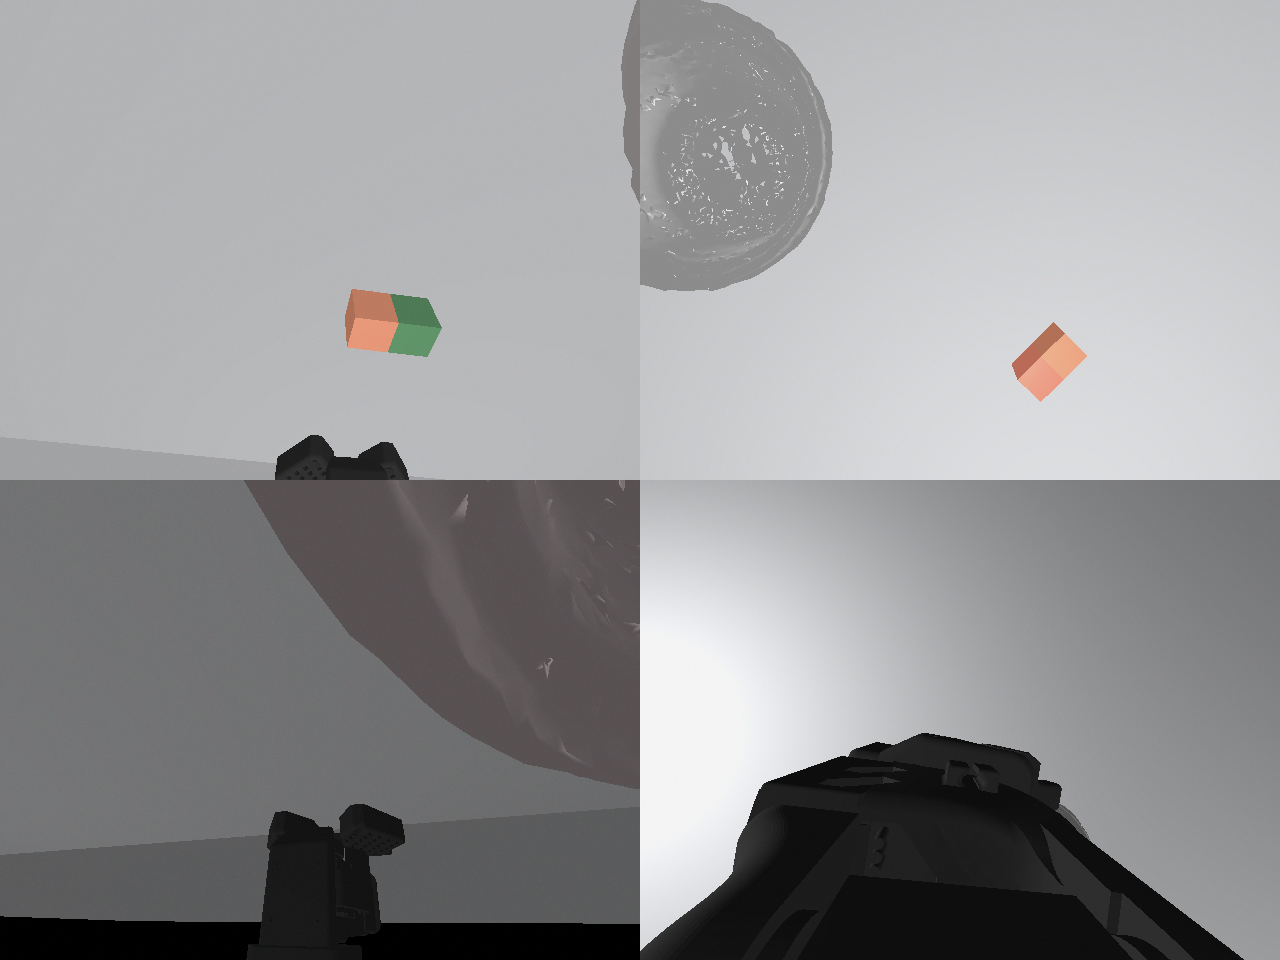
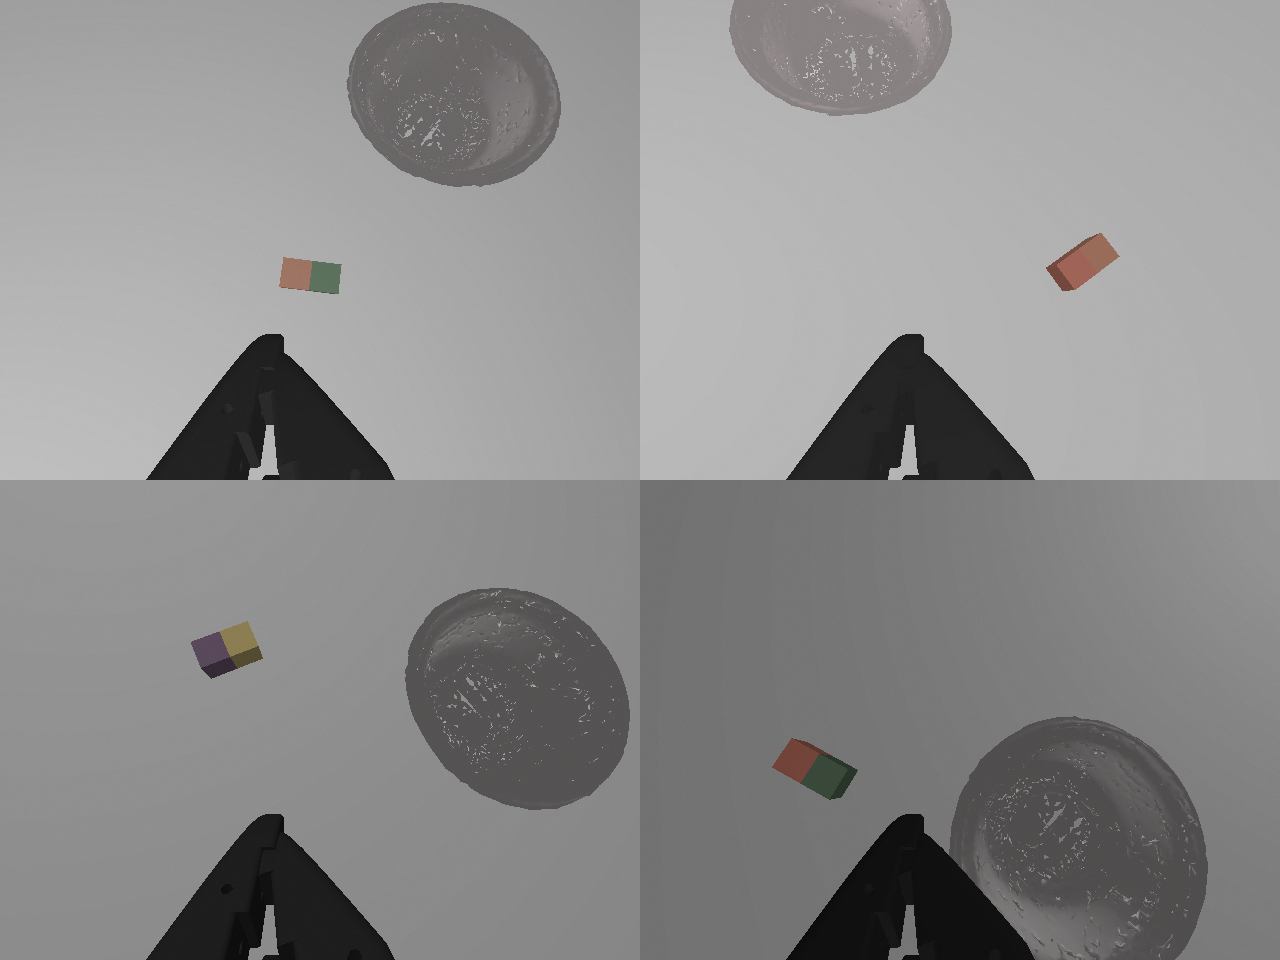
Cube colour overhaul: saturated dark palette + matte PBR + no emission
envs/place.py:
  - COLOR_PALETTE rewritten with high-saturation, mid-V values
    (HSV-S ≥ 0.83, V ≈ 0.4–0.8). The previous palette had green and
    purple at S ≈ 0.35 which read as "white was mixed in".
    red (180,30,30) blue (10,25,140) green (25,95,30)
    yellow (200,170,20) purple (100,20,120) orange (200,80,20)
  - item_roughness_range (0.35, 0.7) -> (0.7, 0.95) — more matte,
    kills the specular highlights that washed colours out.
  - item_specular_range (0.3, 0.7) -> (0.1, 0.4) — less shiny.

envs/base_random_env.py:
  - item_emission_range (0.05, 0.35) -> (0.0, 0.1). The previous
    emission added a self-lit glow that masked the true base colour.

examples/visualize_sim.py:
  - DR-override dict now also zeroes initial_qpos_noise_scale and
    wrist_camera_fov_noise so all 4 tiles show the exact configured
    pose / FOV (the fixed gripper finger stays consistently visible).

vis_snapshot.png: reference frame at the new palette.

diff --git a/envs/place.py b/envs/place.py
@@ -28,12 +28,15 @@ from .robot.so101 import SO101
 # env.reset(options={"goal_color_idx": <int or 1-D tensor>}).
 COLOR_PALETTE = np.array(
     [
-        [231/255,  84/255,  62/255],  # 0 red
-        [ 40/255,  71/255, 136/255],  # 1 blue
-        [ 76/255, 117/255,  77/255],  # 2 green
-        [238/255, 195/255,  83/255],  # 3 yellow
-        [101/255,  67/255, 104/255],  # 4 purple
-        [235/255, 116/255,  79/255],  # 5 orange
+        # High-saturation dark palette (HSV-S ≥ 0.85, V ≈ 0.5–0.8).
+        # Replaces the earlier pastel set whose low-saturation greens and
+        # purples (S ≈ 0.35) read as "white was mixed in".
+        [180/255,  30/255,  30/255],  # 0 red    S=0.83 V=0.71
+        [ 10/255,  25/255, 140/255],  # 1 blue   S=0.93 V=0.55
+        [ 25/255,  95/255,  30/255],  # 2 green  S=0.74 V=0.37
+        [200/255, 170/255,  20/255],  # 3 yellow S=0.90 V=0.78
+        [100/255,  20/255, 120/255],  # 4 purple S=0.83 V=0.47
+        [200/255,  80/255,  20/255],  # 5 orange S=0.90 V=0.78
     ],
     dtype=np.float32,
 )
@@ -203,11 +206,11 @@ class PlaceRandomizationConfig(DefaultRandomizationConfig):
     """Half-range of per-episode multiplicative jitter on cube HSV saturation. ±10% by default."""
     item_value_jitter: float = 0.10
     """Half-range of per-episode multiplicative jitter on cube HSV value (brightness). ±10% by default."""
-    item_roughness_range: Sequence[float] = (0.35, 0.7)
+    item_roughness_range: Sequence[float] = (0.7, 0.95)  # was (0.35, 0.7) — more matte to match painted-wood look (kills specular highlights that read as "too light")
     """Per-episode cube material roughness (matte <-> slightly glossy)."""
     item_metallic_range: Sequence[float] = (0.0, 0.15)
     """Per-episode cube material metallic (kept low — painted wood is non-metallic)."""
-    item_specular_range: Sequence[float] = (0.3, 0.7)
+    item_specular_range: Sequence[float] = (0.1, 0.4)  # was (0.3, 0.7) — lower specular so the cubes don't catch bright highlights that wash out the base color
     """Per-episode cube material specular reflection strength."""
 
     # Per-episode DR on the bowl material. Bowl uses baked vertex colors;

diff --git a/examples/visualize_sim.py b/examples/visualize_sim.py
@@ -95,13 +95,15 @@ def make_env(task: str, config: dict = CONFIG):
         human_render_camera_configs=render_camera_size,
         num_envs=config['num_envs'],
         domain_randomization=config['domain_randomization'],
-        # Zero the per-episode wrist-camera extrinsic jitter so what we see in
-        # the visualizer reflects the exact configured mount, with no DR
-        # offset shifting the framing each reset. Other DR (lighting, cube
-        # colours, frictions, image pipeline) is unaffected.
+        # Zero every DR that perturbs camera framing so what we see in the
+        # visualizer reflects the exact configured mount + keyframe across
+        # all envs. Other DR (lighting, cube colours, frictions, image
+        # pipeline) is unaffected.
         domain_randomization_config={
             'wrist_camera_pos_noise': (0.0, 0.0, 0.0),
             'wrist_camera_rot_noise': (0.0, 0.0, 0.0),
+            'wrist_camera_fov_noise': 0.0,
+            'initial_qpos_noise_scale': 0.0,
         },
         reconfiguration_freq=None,
     )

diff --git a/envs/base_random_env.py b/envs/base_random_env.py
@@ -116,11 +116,12 @@ class RandomizationConfig:
     """Point lights per sub-scene, at random positions above the workspace."""
     point_light_intensity_range: Sequence[float] = (0.0, 0.3)
     """Per-episode per-point-light intensity, before the exposure multiplier."""
-    item_emission_range: Sequence[float] = (0.05, 0.35)
+    item_emission_range: Sequence[float] = (0.0, 0.1)
     """Per-episode emissive glow on the task cubes, as a fraction of their base
-    color. A small self-lit component (domain-randomized) so the goal color
-    stays readable even in the dark tail of the brightness randomization.
-    0.0 = no glow (purely lit by scene lights)."""
+    color. Tightened from (0.05, 0.35) — the older range washed the base
+    colors out and made them look "too light". 0.0 = no glow (purely lit by
+    scene lights), 0.1 = barely-perceptible self-lit so the goal color stays
+    readable in the dark tail of the brightness randomization."""
 
     # === Third-person camera settings (only used by ThirdCameraEnv) ===
     third_camera_pos_noise: Sequence[float] = (0.025, 0.025, 0.025)